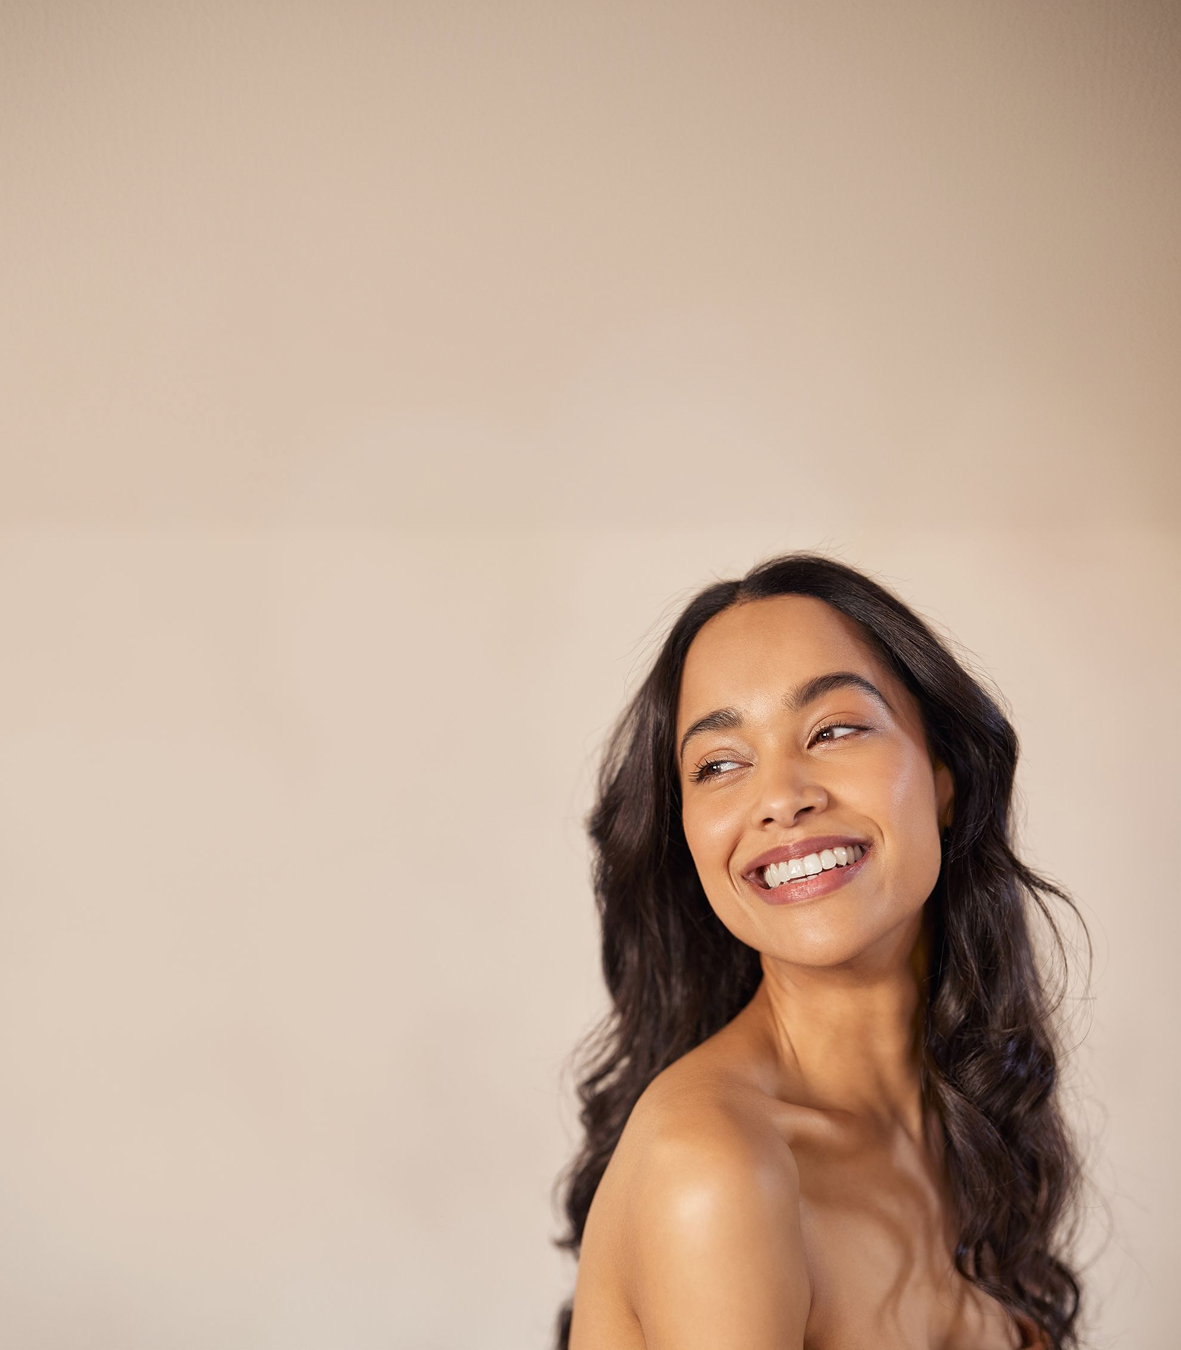
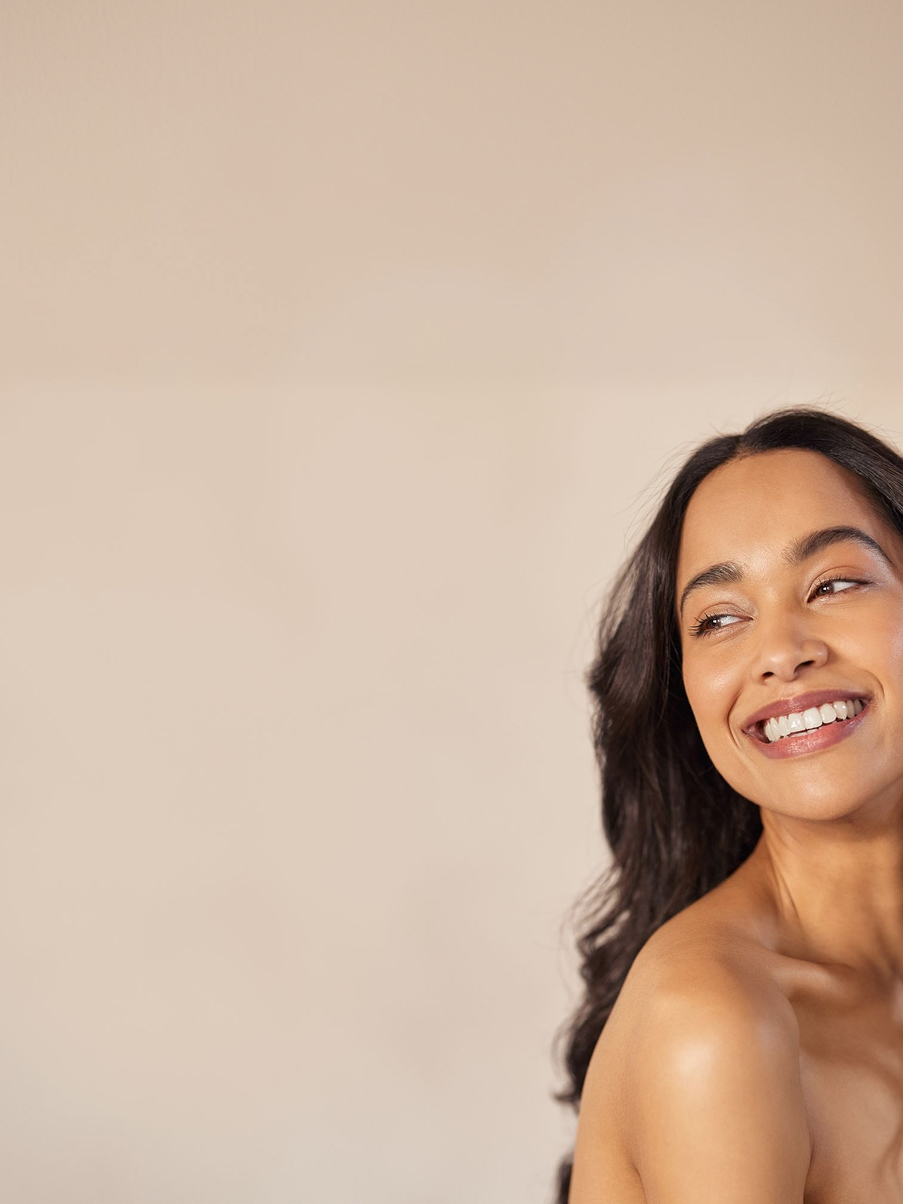
optimized for mobile

diff --git a/src/app/behandlinger/bfo-implantat/page.tsx b/src/app/behandlinger/bfo-implantat/page.tsx
@@ -51,7 +51,7 @@ export default function Page() {
         mobileImage="/images/implants_hands_one.jpg"
         cta={{ label: "Book en personlig konsultation i Esbjerg", href: "#book" }}
         secondaryCta={{ label: "Eget fedt som alternativ", href: "/behandlinger/bfo-eget-fedt-lipofilling" }}
-        mobileGradient=""
+        mobileGradient="linear-gradient(to top, rgba(250,243,238,0.5) 0%, rgba(250,243,238,0.4) 20%, rgba(250,243,238,0) 30%)"
       />
 
       {/* ── FACTS BAR ────────────────────────────────────────────── */}

diff --git a/src/app/behandlinger/brystloeft/page.tsx b/src/app/behandlinger/brystloeft/page.tsx
@@ -37,7 +37,7 @@ export default function Page() {
         h1Main="Brystløft"
         h1Italic="med auto-augmentation"
         image="/images/hero_brunette_smile.jpg"
-        mobileImage="/images/mobile_brunette_smile_test.jpg"
+        mobileImage="/images/mobile_brunette_smile.jpg"
         subtitle="Et brystløft med auto-augmentation er en kirurgisk teknik til dig, der ønsker at genvinde brystets ungdommelige projektion og form uden brug af fremmedlegemer."
         cta={{ label: "Book en uforpligtende konsultation i Esbjerg", href: "#book" }}
         secondaryCta={{ label: "Brystforstørrelse med implantat", href: "/behandlinger/bfo-implantat" }}

diff --git a/src/components/sections/ImageListSection.tsx b/src/components/sections/ImageListSection.tsx
@@ -23,7 +23,7 @@ export default function ImageListSection({ image, quote, label, heading, intro, 
           />
           {quote && (
             <div
-              className="absolute bottom-5 left-5 w-1/2 rounded-md p-5"
+              className="absolute top-5 left-5 lg:w-2/3 w-90% rounded-md p-5 mr-5"
               style={{ background: "rgba(250,243,238,0.82)", backdropFilter: "blur(12px)" }}
             >
               <p className="font-serif font-light text-base italic leading-relaxed text-secondary">&ldquo;{quote.text}&rdquo;</p>

diff --git a/src/components/sections/PageHero.tsx b/src/components/sections/PageHero.tsx
@@ -87,7 +87,7 @@ export default function PageHero({
           <h1 className="font-serif text-3xl lg:text-4xl xl:text-6xl font-semibold leading-[1.1] text-secondary mb-8 max-w-5xl">
             {h1Main} <span className="block italic font-light">{h1Italic}</span>
           </h1>
-          <p className="font-sans text-base leading-relaxed mb-10 lg:max-w-2xs text-black/80">{subtitle}</p>
+          <p className="font-sans text-base leading-relaxed mb-10 lg:max-w-md text-black/80">{subtitle}</p>
           {(cta || secondaryCta) && (
             <div className="flex flex-col lg:flex-row lg:flex-wrap gap-4">
               {cta && (

diff --git a/src/app/behandlinger/udskiftning-af-protese/page.tsx b/src/app/behandlinger/udskiftning-af-protese/page.tsx
@@ -36,6 +36,7 @@ export default function Page() {
         h1Main="Udskiftning af brystimplantater"
         h1Italic="Stabilitet og præcision"
         image="/images/hero_implants_hands_three_beige.jpg"
+        mobileImage="/images/implants_hands_three_brown.jpg"
         subtitle="Udskiftning eller korrektion af tidligere indsatte brystimplantater kræver en særlig grad af kirurgisk præcision og erfaring. Hos Brystcenter Esbjerg prioriterer vi en stabil og korrekt placering af det nye implantat."
         cta={{ label: "Book en speciallægekonsultation i Esbjerg", href: "#book" }}
         secondaryCta={{ label: "Om brystimplantater", href: "/behandlinger/bfo-implantat" }}

diff --git a/src/components/layout/Footer.tsx b/src/components/layout/Footer.tsx
@@ -6,6 +6,7 @@ const services = [
   { label: "Brystløft", href: "/behandlinger/brystloeft" },
   { label: "Brystreduktion", href: "/behandlinger/brystreduktion" },
   { label: "Implantatudskiftning", href: "/behandlinger/udskiftning-af-protese" },
+  { label: "Second Opinion", href: "/behandlinger/second-opinion" },
 ];
 
 export default function Footer() {